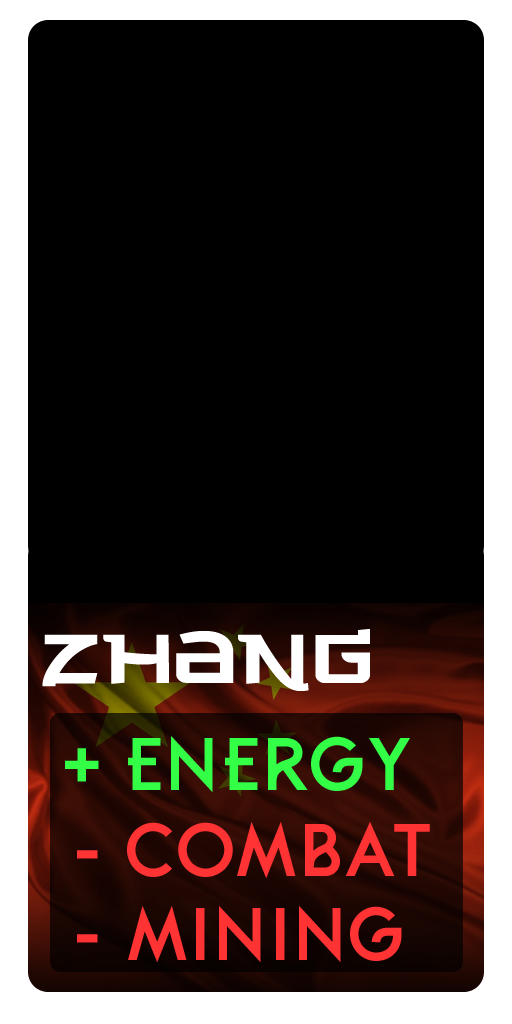
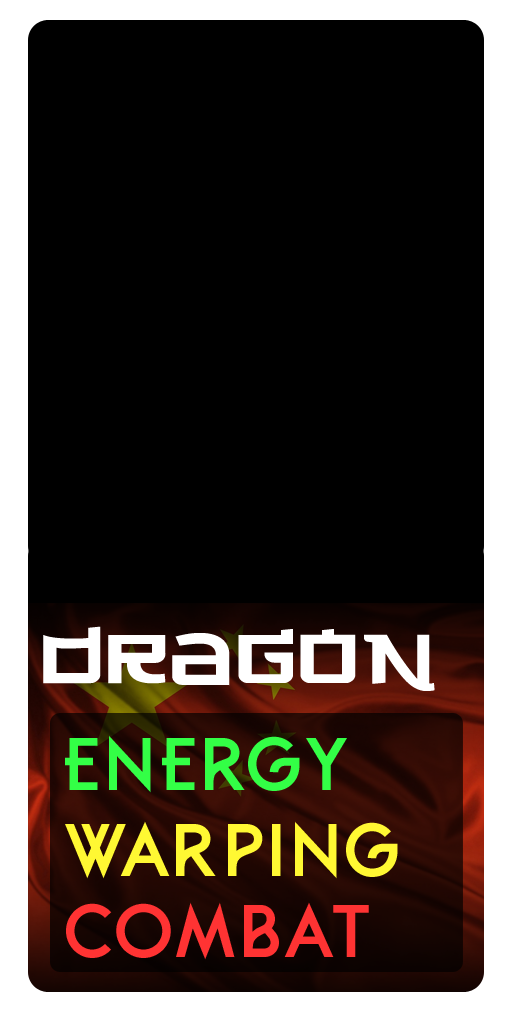
Revised menu layout, picture alterations

Changed region(s): [[0.125, 0.7188, 0.8438, 0.9375], [0.0625, 0.5938, 0.8438, 0.6875]]

diff --git a/Assets/Scripts/menu/MP.cs b/Assets/Scripts/menu/MP.cs
@@ -35,16 +35,27 @@ public class MP : MonoBehaviour
 
         GameObject nameTitle = GameObject.Find("STRName");
         nameTitle.GetComponent<TextMesh>().text = Names.FetchSTRName();
+		
+		GameObject PopMP = GameObject.Find ("PopMP");
+		iTween.FadeTo(PopMP,0.5f,0.1f);
     }
 
     void OnMouseEnter()
     {
-        iTween.FadeTo(gameObject, 1.0f, 0.5f);
+        GameObject PopMP = GameObject.Find ("PopMP");
+		GameObject MP = GameObject.Find ("Multiplayer button");
+		iTween.FadeTo(MP, 1.0f, 0.5f);
+		iTween.FadeTo(PopMP,1.0f,0.5f);
+		iTween.MoveTo(PopMP,new Vector3(PopMP.transform.position.x,PopMP.transform.position.y,28),0.5f);
     }
 
     void OnMouseExit()
     {
-        iTween.FadeTo(gameObject, 0.3f, 0.5f);
+        GameObject PopMP = GameObject.Find ("PopMP");
+		GameObject MP = GameObject.Find ("Multiplayer button");
+		iTween.FadeTo(MP, 0.3f, 0.5f);
+		iTween.FadeTo(PopMP,0.5f,0.5f);
+		iTween.MoveTo(PopMP,new Vector3(PopMP.transform.position.x,PopMP.transform.position.y,30),0.5f);
     }
 
     void OnMouseUp()
@@ -68,8 +79,14 @@ public class MP : MonoBehaviour
         GUIStyle exitStyle = new GUIStyle();
         exitStyle.font = deco;
         exitStyle.normal.textColor = Color.white;
-        exitStyle.fontSize = 28;
+        exitStyle.fontSize = 32;
         exitStyle.alignment = TextAnchor.UpperCenter;
+		
+		GUIStyle exitStyleBig = new GUIStyle();
+        exitStyleBig.font = deco;
+        exitStyleBig.normal.textColor = Color.white;
+        exitStyleBig.fontSize = 40;
+        exitStyleBig.alignment = TextAnchor.UpperCenter;
 
         GUIStyle field = new GUIStyle();
         //field.normal.background = HudOn.fillTex(10,10,Color.black);
@@ -105,7 +122,7 @@ public class MP : MonoBehaviour
             float charbgAlpha = 0.75f;
 
             GUI.Label(new Rect((Screen.width - credWidth) / 2, (Screen.height - credHeight) / 4, credWidth, credHeight), bg, centeredStyle);
-            GUI.Box(new Rect(Screen.width / 2 - 95, Screen.height / 2 - 130, 200, 140), "WHAT WOULD YOU LIKE TO DO?", exitStyle);
+            GUI.Box(new Rect(Screen.width / 2 - 95, Screen.height / 2 - 130, 200, 140), "WHAT WOULD YOU LIKE TO DO?", exitStyleBig);
 
             GameObject header = GameObject.Find("SBrowserHeader");
             GameObject subheader = GameObject.Find("SBrowserSelect");
@@ -113,7 +130,7 @@ public class MP : MonoBehaviour
 			GameObject serverNameBox = GameObject.Find("SDetailsNameBox2");
 
             // HOST ONLINE GAME
-            if (GUI.Button(new Rect(Screen.width / 2 - (butWidth/2), Screen.height / 2 - 60, butWidth, butHeight), "HOST ONLINE GAME"))
+            if (GUI.Button(new Rect(Screen.width / 2 - (butWidth/2), Screen.height / 2 - 60, butWidth, butHeight), "HOST ONLINE GAME",exitStyle))
             {
                 
                 header.GetComponent<TextMesh>().text = "HOST ONLINE GAME";
@@ -129,7 +146,7 @@ public class MP : MonoBehaviour
             }
 
             //JOIN ONLINE GAME
-            if (GUI.Button(new Rect(Screen.width / 2 - (butWidth/2), Screen.height / 2 - 60 + butHeight + margin, butWidth, butHeight), "JOIN ONLINE GAME"))
+            if (GUI.Button(new Rect(Screen.width / 2 - (butWidth/2), Screen.height / 2 - 60 + butHeight + margin, butWidth, butHeight), "JOIN ONLINE GAME",exitStyle))
             {
                 header.GetComponent<TextMesh>().text = "JOIN ONLINE GAME";
                 subheader.GetComponent<TextMesh>().text = "CHOOSE AN ONLINE SERVER TO JOIN";

diff --git a/Assets/Scripts/menu/SP.cs b/Assets/Scripts/menu/SP.cs
@@ -3,32 +3,43 @@ using System.Collections;
 
 public class SP : MonoBehaviour {
 	private bool menuSP = false;
-    public static bool singleplayerStart = false;
+	public static bool singleplayerStart;
 	
 	void Start () {
-		iTween.FadeTo(gameObject, 0.3f, 0.1f);	
+		GameObject PopSP = GameObject.Find ("PopSP");
+		GameObject SP = GameObject.Find ("SP Button");
+		iTween.FadeTo(SP, 0.3f, 0.1f);	
+		iTween.FadeTo(PopSP,0.5f,0.1f);
+		singleplayerStart = false;
 	}
 
 	void OnMouseEnter() {
-		iTween.FadeTo(gameObject, 1.0f, 0.5f);
+		GameObject PopSP = GameObject.Find ("PopSP");
+		GameObject SP = GameObject.Find ("SP Button");
+		iTween.FadeTo(SP, 1.0f, 0.5f);
+		iTween.FadeTo(PopSP,1.0f,0.5f);
+		iTween.MoveTo(PopSP,new Vector3(PopSP.transform.position.x,PopSP.transform.position.y,28),0.5f);
 	}
 	
 	void OnMouseExit() {
-		iTween.FadeTo(gameObject, 0.3f, 0.5f);
+		GameObject PopSP = GameObject.Find ("PopSP");
+		GameObject SP = GameObject.Find ("SP Button");
+		iTween.FadeTo(SP, 0.3f, 0.5f);
+		iTween.FadeTo(PopSP,0.5f,0.5f);
+		iTween.MoveTo(PopSP,new Vector3(PopSP.transform.position.x,PopSP.transform.position.y,30),0.5f);
 	}
 	
 	void OnMouseUp ()
 	{
-        menuSP = true;
+		menuSP = true;
 	}
 	
 	void Update()
 	{
-        if (menuSP) 
+		if (menuSP) 
 		{
-			iTween.MoveTo(Camera.main.gameObject,new Vector3(75,-75,0), 4);
-            singleplayerStart = true;
-            menuSP = false;
+			iTween.MoveTo(Camera.main.gameObject,new Vector3(75,-75,0), 4);	
+			menuSP = false;
 		}
 	}
 }

diff --git a/Assets/Scripts/menu/Exit.cs b/Assets/Scripts/menu/Exit.cs
@@ -7,16 +7,27 @@ public class Exit : MonoBehaviour {
     private Texture2D bg;
 	
 	void Start () {
-		iTween.FadeTo(gameObject, 0.3f, 0.1f);
+		GameObject PopExit = GameObject.Find ("PopExit");
+		GameObject Exit = GameObject.Find ("Exit");
+		iTween.FadeTo(Exit, 0.3f, 0.1f);
         bg = (Texture2D)Resources.Load("menu/blank");
+		iTween.FadeTo(PopExit,0.5f,0.1f);
 	}
 
 	void OnMouseEnter() {
-		iTween.FadeTo(gameObject, 1.0f, 0.5f);
+		GameObject Exit = GameObject.Find ("Exit");
+		GameObject PopExit = GameObject.Find ("PopExit");
+		iTween.FadeTo(Exit, 1.0f, 0.5f);
+		iTween.FadeTo(PopExit,1.0f,0.5f);
+		iTween.MoveTo(PopExit,new Vector3(PopExit.transform.position.x,PopExit.transform.position.y,28),0.5f);
 	}
 	
 	void OnMouseExit() {
-		iTween.FadeTo(gameObject, 0.3f, 0.5f);
+		GameObject Exit = GameObject.Find ("Exit");
+		GameObject PopExit = GameObject.Find ("PopExit");
+		iTween.FadeTo(Exit, 0.3f, 0.5f);
+		iTween.FadeTo(PopExit,0.5f,0.5f);
+		iTween.MoveTo(PopExit,new Vector3(PopExit.transform.position.x,PopExit.transform.position.y,30),0.5f);
 	}
 	
 	void OnMouseUp () {

diff --git a/Assets/Scripts/menu/HowTo.cs b/Assets/Scripts/menu/HowTo.cs
@@ -5,15 +5,26 @@ public class HowTo : MonoBehaviour {
 	private bool menuHow = false;
 	
 	void Start () {
-		iTween.FadeTo(gameObject, 0.3f, 0.1f);	
+		GameObject PopHow = GameObject.Find ("PopHow");
+		GameObject How = GameObject.Find ("How To Play button");
+		iTween.FadeTo(How, 0.3f, 0.1f);	
+		iTween.FadeTo(PopHow,0.5f,0.1f);
 	}
 
 	void OnMouseEnter() {
-		iTween.FadeTo(gameObject, 1.0f, 0.5f);
+		GameObject PopHow = GameObject.Find ("PopHow");
+		GameObject How = GameObject.Find ("How To Play button");
+		iTween.FadeTo(How, 1.0f, 0.5f);
+		iTween.FadeTo(PopHow,1.0f,0.5f);
+		iTween.MoveTo(PopHow,new Vector3(PopHow.transform.position.x,PopHow.transform.position.y,28),0.5f);
 	}
 	
 	void OnMouseExit() {
-		iTween.FadeTo(gameObject, 0.3f, 0.5f);
+		GameObject PopHow = GameObject.Find ("PopHow");
+		GameObject How = GameObject.Find ("How To Play button");
+		iTween.FadeTo(How, 0.3f, 0.5f);
+		iTween.FadeTo(PopHow,0.5f,0.5f);
+		iTween.MoveTo(PopHow,new Vector3(PopHow.transform.position.x,PopHow.transform.position.y,30),0.5f);
 	}
 	
 	void OnMouseUp ()
